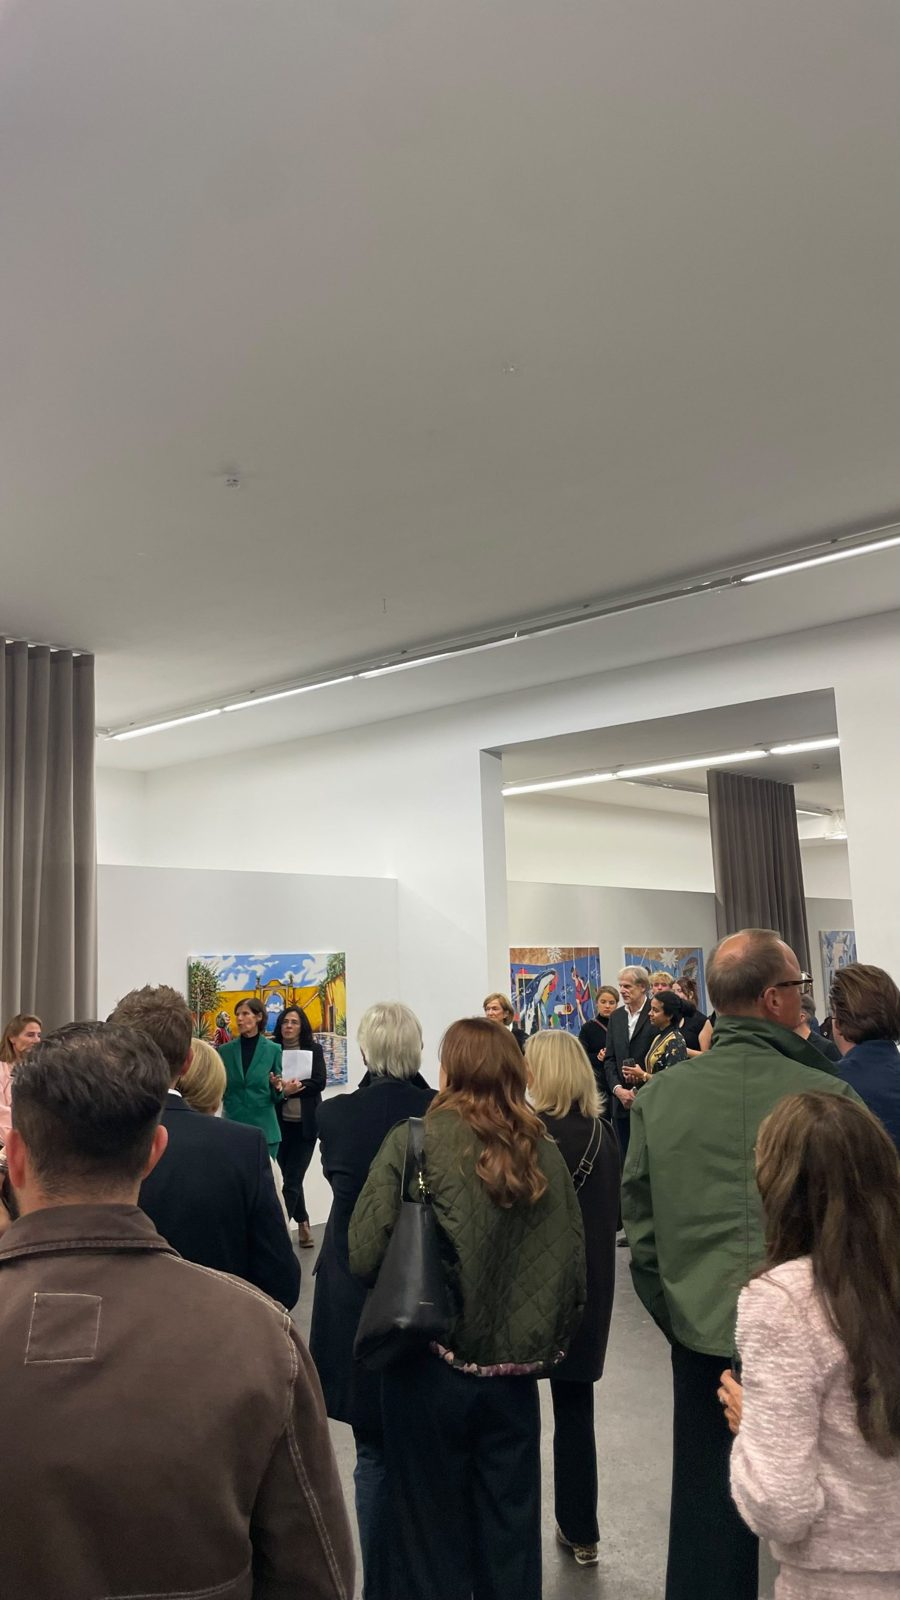
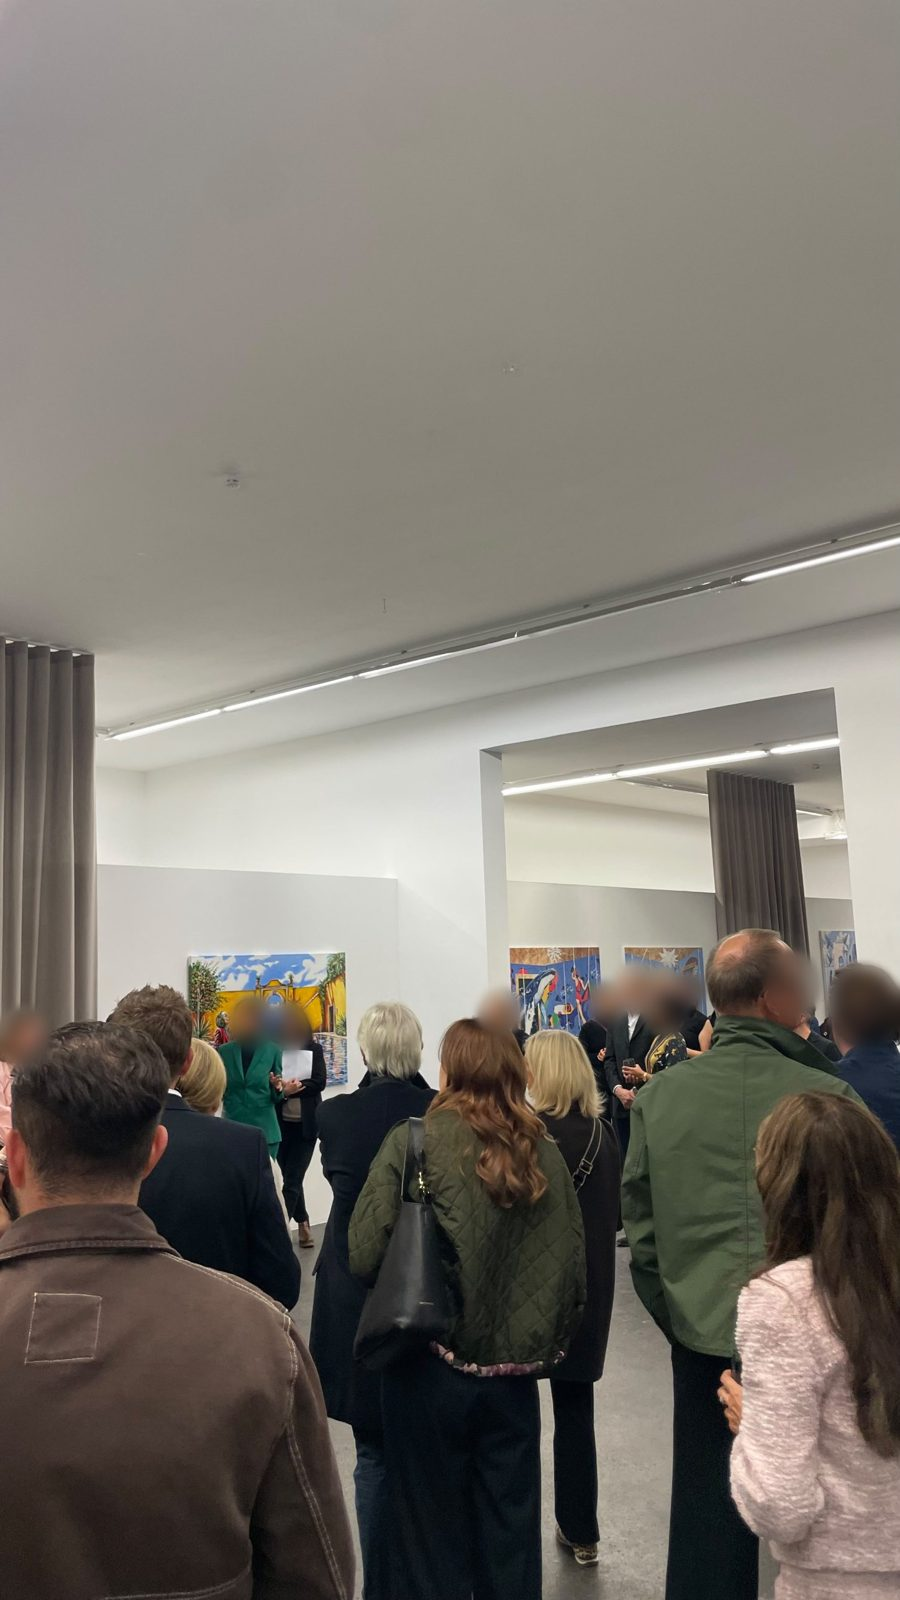
About: blur guests' faces in vernissage photo
Claude-Session: https://claude.ai/code/session_011kthtv8KCr5b9pfbN4ot55

diff --git a/about.html b/about.html
@@ -51,7 +51,7 @@
           <div class="hs-frame"><img src="assets/img/space/space-window.jpg" alt="Artspace87: Long table in front of the street window"></div>
         </figure>
         <figure class="hs-item" style="--h:70;--ar:4 / 5;align-self:flex-end" data-speed="1.05">
-          <div class="hs-frame"><img src="assets/img/space/space-vernissage.jpg" alt="Artspace87: Guests at a vernissage"></div>
+          <div class="hs-frame"><img src="assets/img/space/space-vernissage.jpg?v=2" alt="Artspace87: Guests at a vernissage"></div>
         </figure>
         <figure class="hs-item" style="--h:56;--ar:4 / 3;align-self:flex-start" data-speed="0.97">
           <div class="hs-frame"><img src="assets/img/space/space-art-wall.jpg" alt="Artspace87: Paintings by Sante Muro on the main wall"></div>
